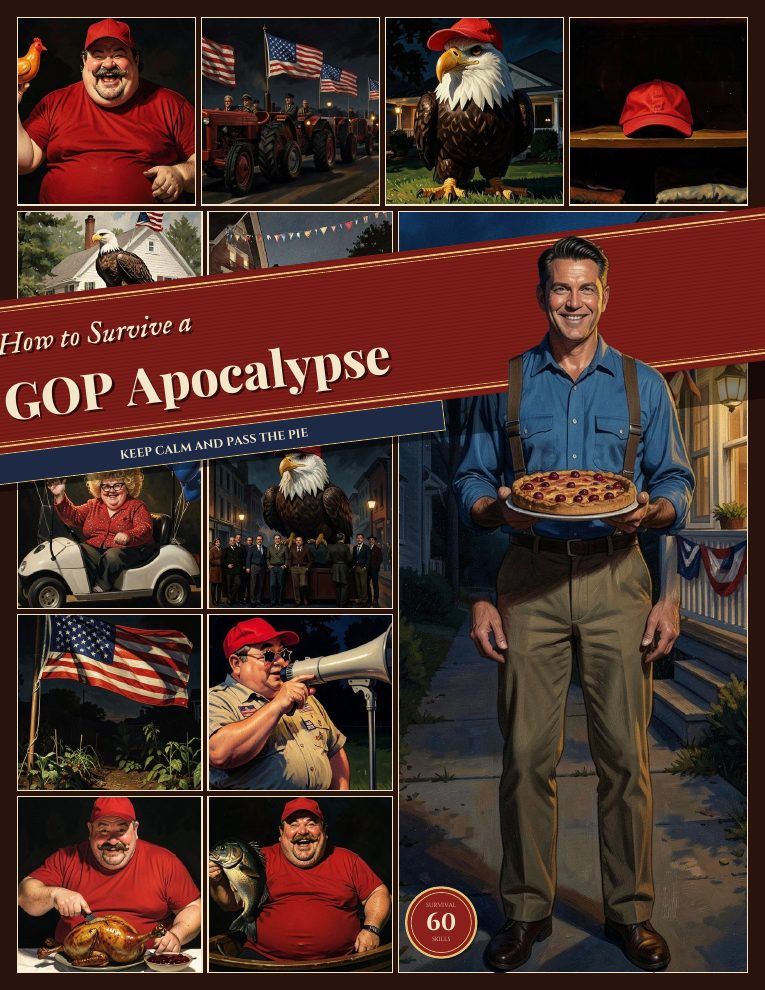
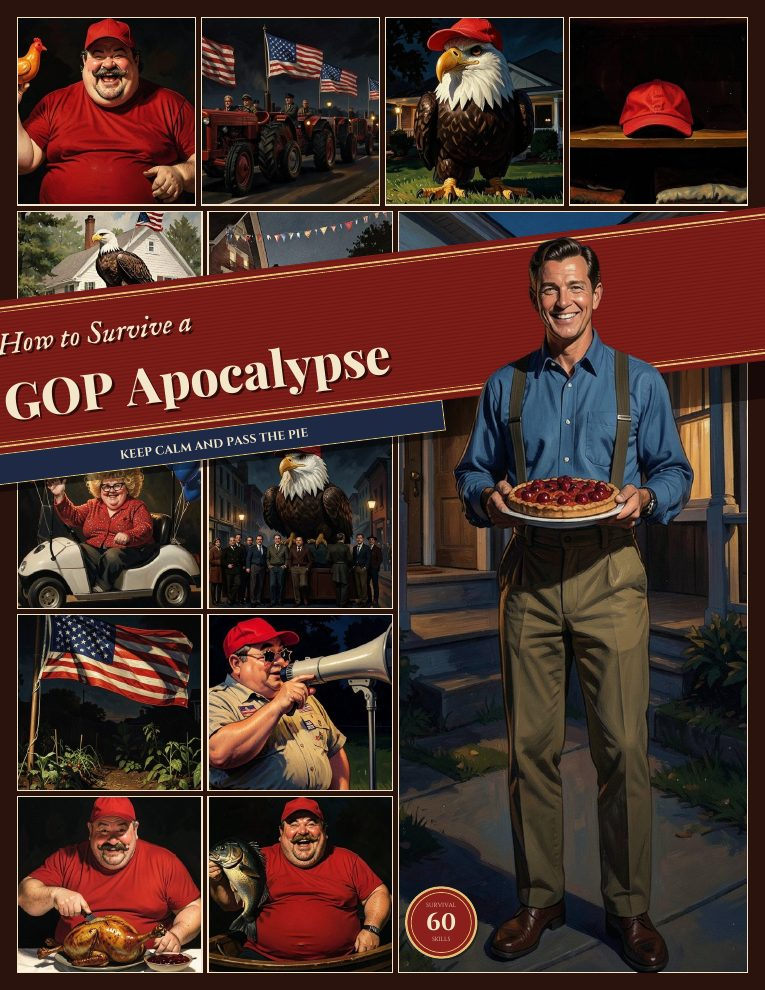
Fix GOP and Time Travelers covers: two arms, whole knight face
Claude-Session: https://claude.ai/code/session_01AdSuguJxLvMHCHDaxzqfUy

Changed region(s): [[0.5111, 0.2121, 0.9922, 1.0], [0.5111, 0.9394, 0.5712, 1.0], [0.8118, 0.2121, 0.8418, 0.2424]]

diff --git a/time-travelers/index.html b/time-travelers/index.html
@@ -44,7 +44,7 @@
       </div>
     </div>
     <div class="cover-wrap">
-      <img src="img/page1.jpg" alt="Front cover of Good Manners for Time Travelers: a smiling 1950s housewife in a yellow dress and white apron holding a teacup, beside a friendly knight in shining armor holding a teacup, with tiled scenes of a Roman senator, a Viking, a queen, a cowboy and a robot butler" width="900" height="1165">
+      <img src="img/page1.jpg" alt="Front cover of Good Manners for Time Travelers: a smiling 1950s housewife in a yellow dress and white apron holding a teacup, beside a friendly knight in shining armor, visor raised, holding a teacup, with tiled scenes of a Roman senator, a Viking, a queen, a cowboy and a robot butler" width="900" height="1165">
       <div class="seal" aria-hidden="true">Timeless<b>60</b>Manners</div>
     </div>
   </div>

diff --git a/gop-apocalypse/index.html b/gop-apocalypse/index.html
@@ -44,7 +44,7 @@
       </div>
     </div>
     <div class="cover-wrap">
-      <img src="img/page1.jpg" alt="Front cover of How to Survive a GOP Apocalypse: a painted 1950s father in suspenders holding a cherry pie on a street hung with bunting, at dusk, beside tiled scenes of neighbors and uncles in red MAGA caps" width="900" height="1165">
+      <img src="img/page1.jpg" alt="Front cover of How to Survive a GOP Apocalypse: a painted 1950s father in suspenders holding a cherry pie by a porch hung with bunting, at dusk, beside tiled scenes of neighbors and uncles in red MAGA caps" width="900" height="1165">
       <div class="seal" aria-hidden="true">Survival<b>60</b>Skills</div>
     </div>
   </div>
